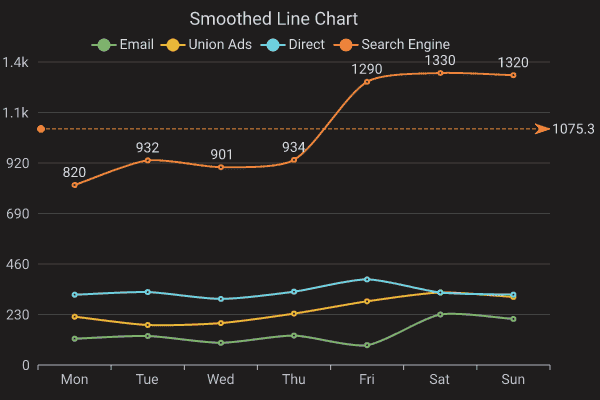
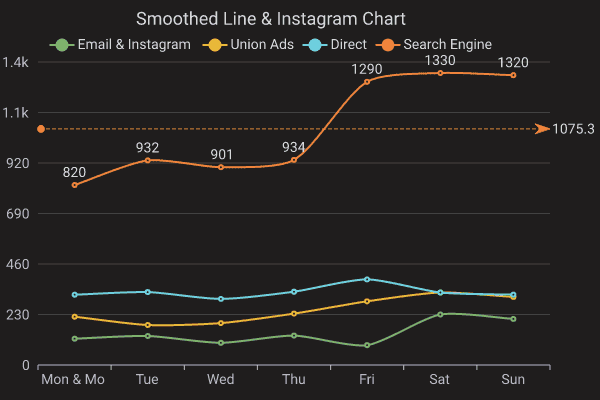
fix: escape special characters in SVG output to prevent PNG conversion panic (#40)

Changed region(s): [[0.09, 0.03, 0.84, 0.15], [0.06, 0.93, 0.18, 0.96]]

diff --git a/src/charts/bar_chart.rs b/src/charts/bar_chart.rs
@@ -306,7 +306,7 @@ mod tests {
         let mut bar_chart = BarChart::new(
             vec![
                 (
-                    "Email",
+                    "Email & Instagram",
                     vec![120.0, 132.0, 101.0, 134.0, 90.0, 230.0, 210.0],
                 )
                     .into(),
@@ -327,7 +327,7 @@ mod tests {
                     .into(),
             ],
             vec![
-                "Mon".to_string(),
+                "Mon & Mo".to_string(),
                 "Tue".to_string(),
                 "Wed".to_string(),
                 "Thu".to_string(),
@@ -337,7 +337,7 @@ mod tests {
             ],
         );
         bar_chart.y_axis_configs[0].axis_width = Some(55.0);
-        bar_chart.title_text = "Bar Chart".to_string();
+        bar_chart.title_text = "Bar & Line Chart".to_string();
         bar_chart.legend_margin = Some(Box {
             top: 35.0,
             bottom: 10.0,

diff --git a/tests/image.rs b/tests/image.rs
@@ -85,7 +85,7 @@ fn generate_image() {
     let mut line_chart = LineChart::new_with_theme(
         vec![
             (
-                "Email",
+                "Email & Instagram",
                 vec![120.0, 132.0, 101.0, 134.0, 90.0, 230.0, 210.0],
             )
                 .into(),
@@ -106,7 +106,7 @@ fn generate_image() {
                 .into(),
         ],
         vec![
-            "Mon".to_string(),
+            "Mon & Mo".to_string(),
             "Tue".to_string(),
             "Wed".to_string(),
             "Thu".to_string(),
@@ -117,7 +117,7 @@ fn generate_image() {
         THEME_GRAFANA,
     );
     line_chart.margin.right = 50.0;
-    line_chart.title_text = "Smoothed Line Chart".to_string();
+    line_chart.title_text = "Smoothed Line & Instagram Chart".to_string();
     line_chart.legend_margin = Some(Box {
         top: line_chart.title_height,
         bottom: 5.0,

diff --git a/src/charts/component.rs b/src/charts/component.rs
@@ -10,6 +10,7 @@
 // See the License for the specific language governing permissions and
 // limitations under the License.
 
+use html_escape::encode_text;
 use serde::{Deserialize, Serialize};
 use snafu::{ResultExt, Snafu};
 use std::fmt;
@@ -557,7 +558,7 @@ impl Text {
         SVGTag {
             tag: TAG_TEXT,
             attrs,
-            data: Some(self.text.clone()),
+            data: Some(encode_text(&self.text).to_string()),
         }
         .to_string()
     }
